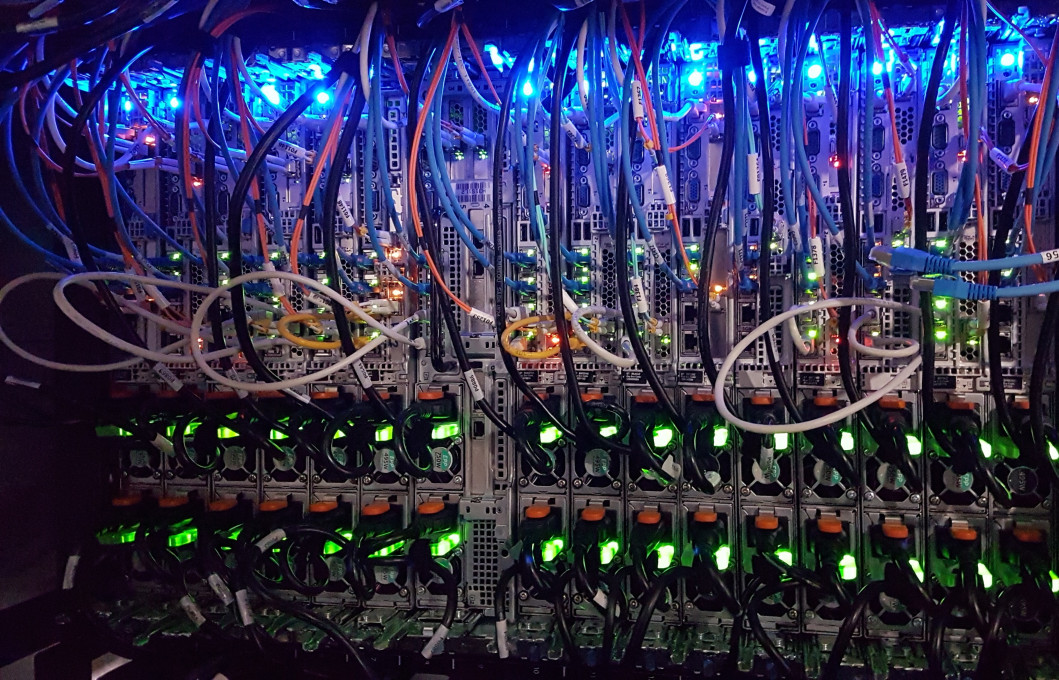
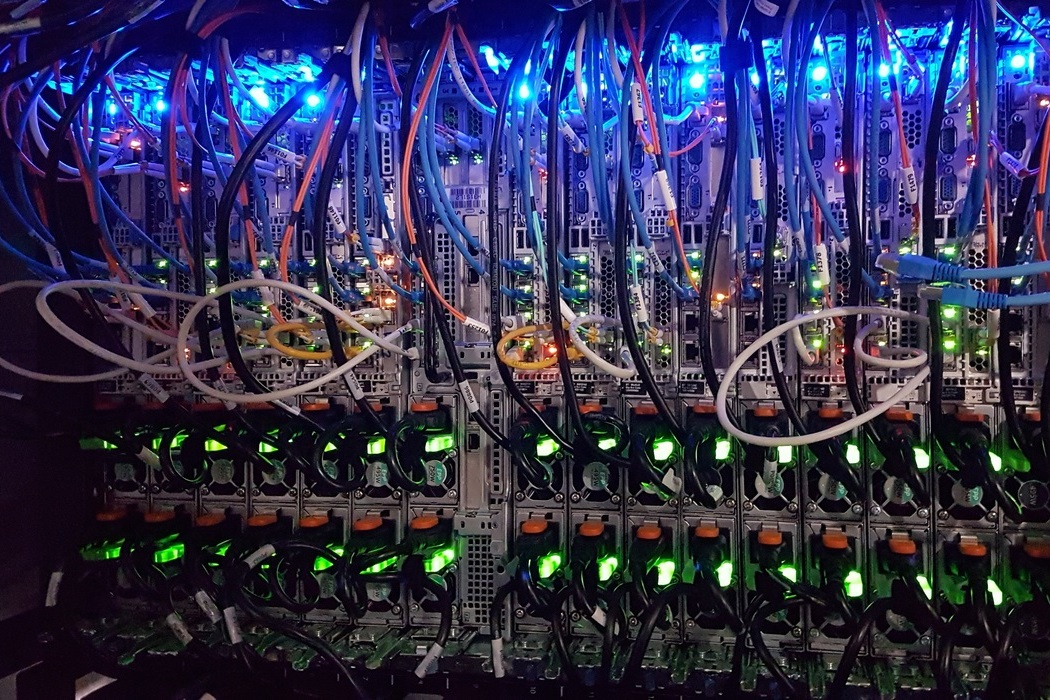
redimensionado de imagenes y mejora flecha subir en servicios

diff --git a/servicios.html b/servicios.html
@@ -12,9 +12,9 @@
 	<link rel="stylesheet" href="css/animate.min.css">
 	<link rel="stylesheet" type="text/css" href="css/estilos.css">
 </head>
-<body class="imagenBgOnePage img-fluid">
-	<header class="estiloHeader">
-		<nav class="navbar navbar-expand-lg navbar bg-transparent">
+<body id="inicio" class="imagenBgOnePage img-fluid">
+	<header  class="estiloHeader">
+		<nav  class="navbar navbar-expand-lg navbar bg-transparent">
 	  		<button class="navbar-toggler m-auto" type="button" data-toggle="collapse" data-target="#navbarNavDropdown" aria-controls="navbarNavDropdown" aria-expanded="false" aria-label="Toggle navigation">
 	  			<div class="headerMobile">
 	  				<img src="media/datamatic3.png" class="ancho200px"><img src="media/flechaabajo5.png" class="imgIconoMenuMobile">
@@ -387,7 +387,7 @@
 			</div>
 		</div>
 		<div class="flechaUp">
-			<a href="servicios.html" class="card-link"><img src="media/up32png.png" id="imgIcon"></a>
+			<a href="#inicio" class="card-link"><img src="media/up32png.png" id="imgIcon"></a>
 		</div>
 	</main>
 	<footer id="estiloFooter">
